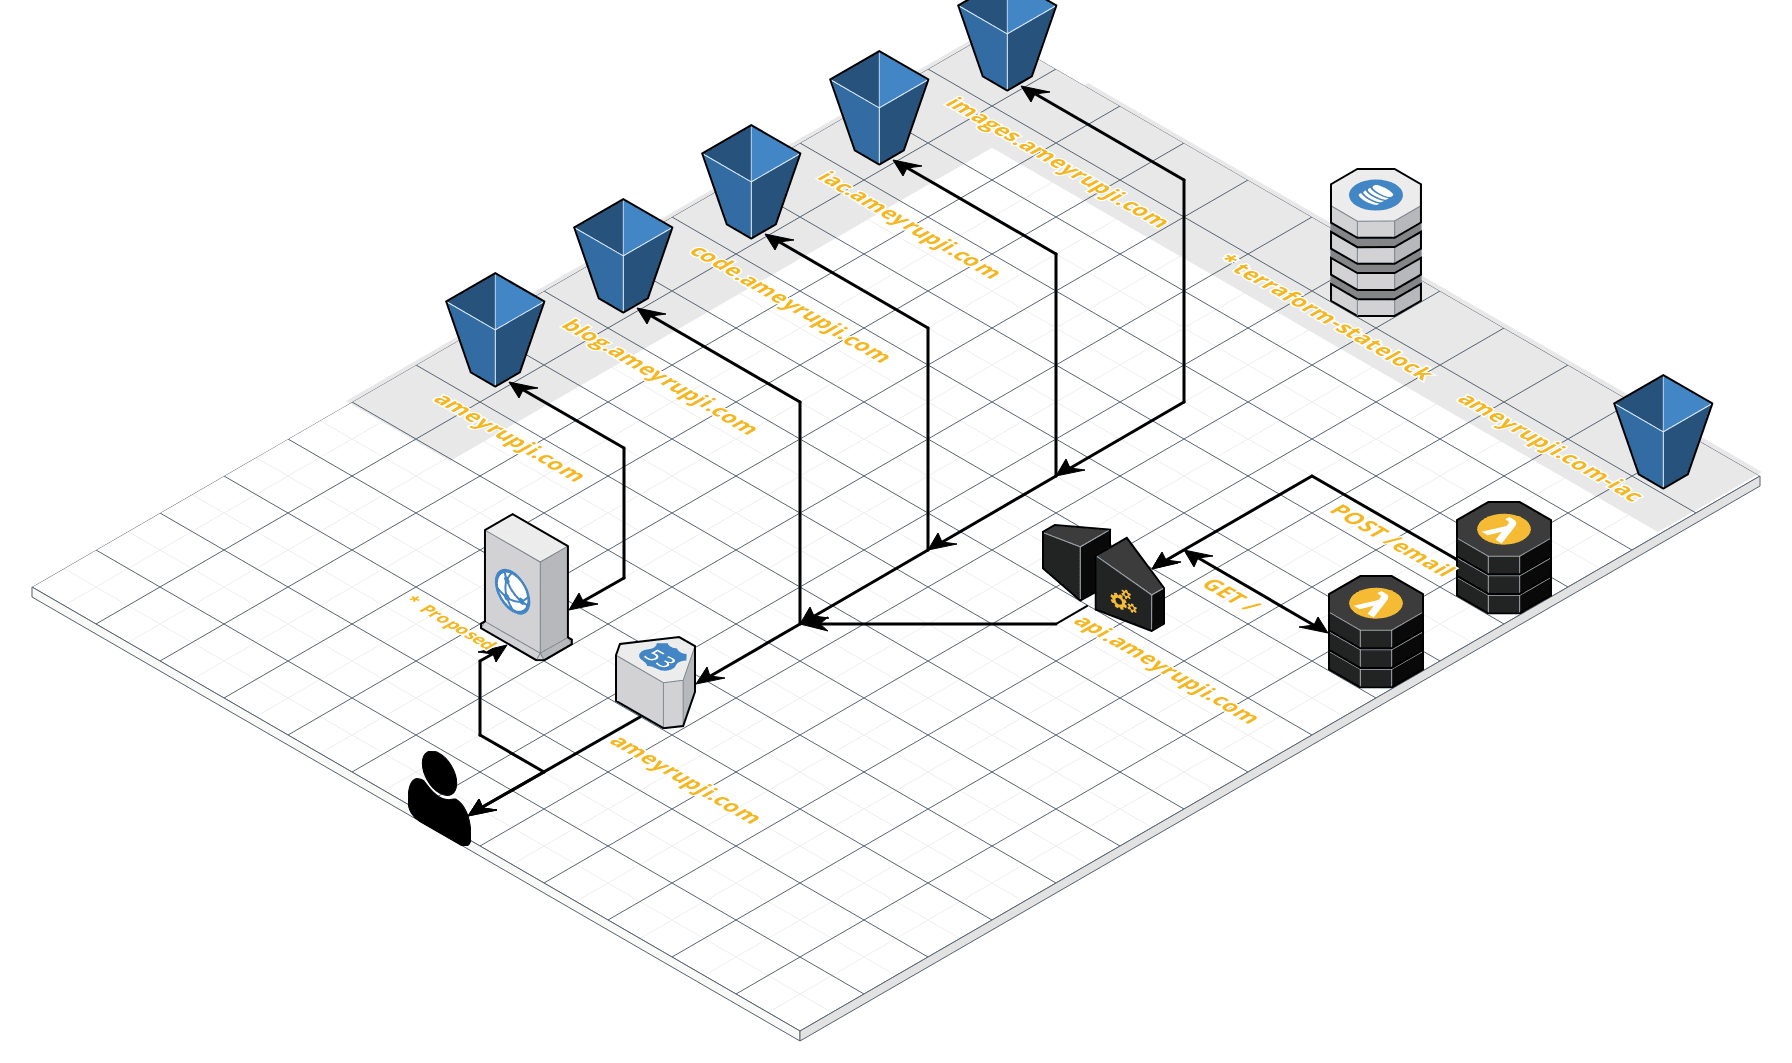
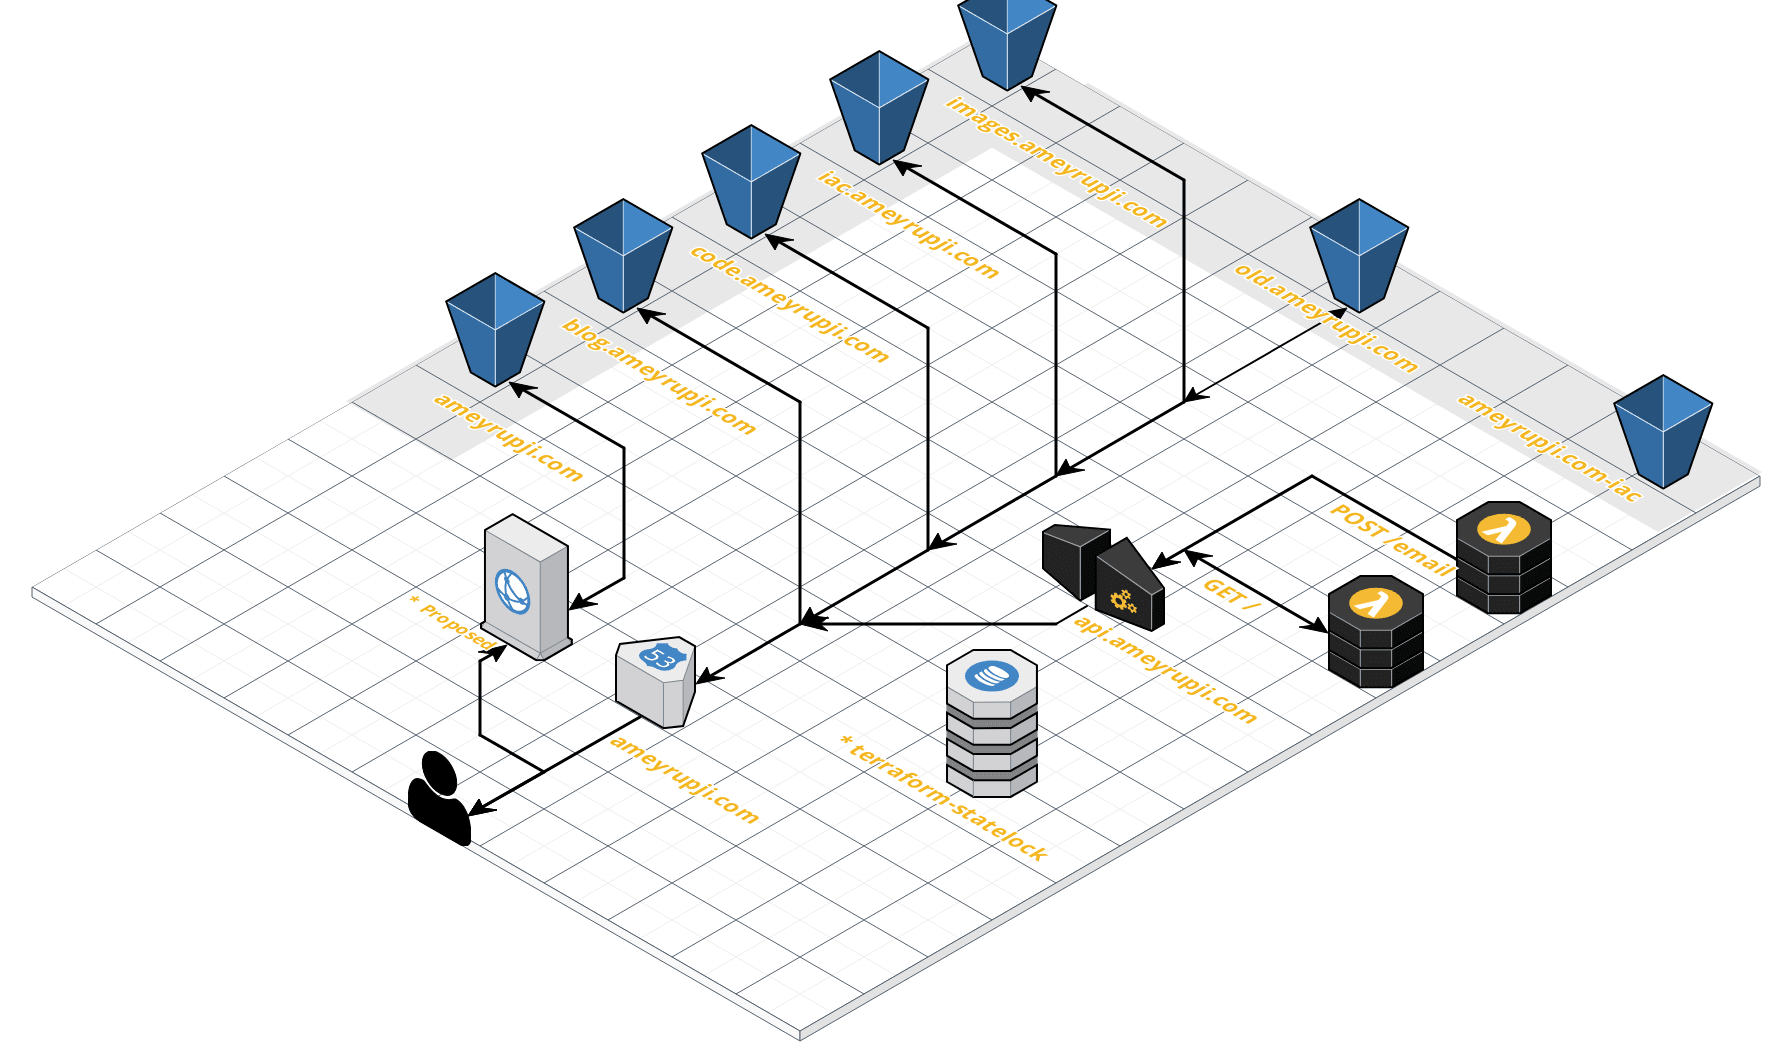
GH-4 Updating documentation

diff --git a/README.md b/README.md
@@ -62,6 +62,7 @@ Blog Subdomain | blog.ameyrupji.com | blog.beta.ameyrupji.com
 Code Subdomain | code.ameyrupji.com | code.beta.ameyrupji.com
 IaC Subdomain | iac.ameyrupji.com | iac.beta.ameyrupji.com
 Images Subdomain | images.ameyrupji.com | images.beta.ameyrupji.com
+Old  Subdomain | old.ameyrupji.com | old.beta.ameyrupji.com
 
 - Hosted Zones Record Sets
 
@@ -73,6 +74,7 @@ Blog Subdomain | blog | blog.beta
 Code Subdomain | code | code.beta
 IaC Subdomain | iac | iac.beta
 Images Subdomain | images | images.beta
+Old Subdomain | old | old.beta
 
 - API Gateway
 
